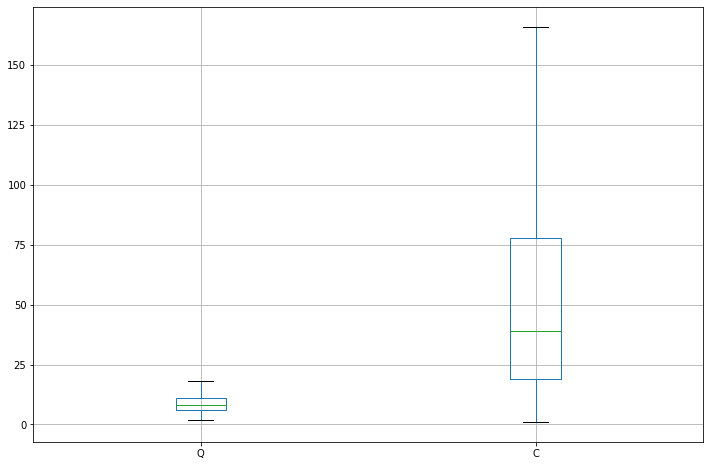
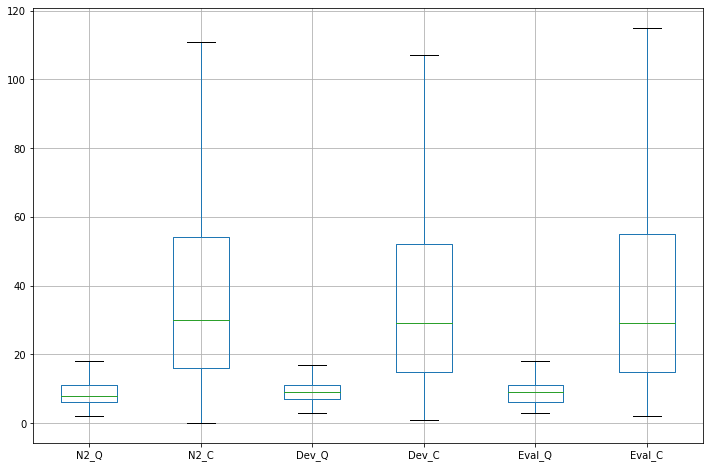
revise training and evaluation. explain boxplot table. fix pre processing section. fix training and evaluation figures. fix representing each word of a sentence (section 3.1)

diff --git a/cap-resultados.tex b/cap-resultados.tex
@@ -77,7 +77,7 @@ $N_{3}$: Trechos de código-fonte anotados manualmente & $2.169$ & $2.056$  \\
  \hline 
  
 \end{tabular}
-\caption{Divisão do conjunto de dados disponibilizado por \cite{yao-2018}. O conjunto formado por "Trechos de código-fonte anotados automaticamente" contém questões que tem mais de um trecho de código-fonte por resposta. Quando há mais de um trecho de código-fonte por resposta, nem todo trecho é uma solução. Neste caso, \cite{yao-2018} criaram um framework para anotá-los automaticamente. Eles obtiveram F1 de $0,916$ e acurácia de $0,911$ em seus testes de classificação das respostas corretas.}
+\caption{Divisão do conjunto de dados disponibilizado por \cite{yao-2018}. O conjunto formado por "Trechos de código-fonte anotados automaticamente" contém questões que tem mais de um trecho de código-fonte por resposta. Quando há mais de um trecho de código-fonte por resposta, nem todo trecho é uma solução. Neste caso, \cite{yao-2018} criaram um framework para anotá-los automaticamente. Eles obtiveram F1 de $0,916$ e acurácia de $0,911$ em seus testes de classificação automática das respostas corretas.}
 \label{table:summary-training-data-yao-staqc}
 \end{table}
 
@@ -85,43 +85,6 @@ $N_{3}$: Trechos de código-fonte anotados manualmente & $2.169$ & $2.056$  \\
 \label{sec:treinamento-avaliacao}
 
 Para o treinamento do modelo, utilizamos apenas os pares de questões e trechos de código-fonte em Python. Utilizamos os conjuntos $N_{1}$ e $N_{2}$ para treinamento e avaliação conforme a Figura~\ref{fig:distinct-subset-python-pair-question-code}. O conjunto de amostras $N_{1}$ apresenta uma variabilidade maior, em torno de 27\% das questões contém mais de um trecho de código-fonte anotados como correto, i.e., 27\% das perguntas tem mais de uma opção de solução.
-
-\begin{table}[h]
-\centering
-\begin{tabular}{ p{8em} P{10em} P{10em} }
-\hline
-  & \multicolumn{2}{c}{\textbf{Quantidade de palavras}}\\
-\hline
- & \textbf{Questão} & \textbf{Trecho de código}  \\
-\hline
-
-Média &	 $8.93$ & $66.82$ \\
-
-Desvio padrão & $3.64$ & $113.71$ \\
-
-Mínimo & $2$ & $1$ \\ 
-
-25\% & $6$ & $19$ \\
-
-50\% & $8$ & $39$ \\
-
-75\% & $11$ & $78$ \\
-
-Máximo & $32$ & $14413$ \\
- 
- 
- \hline 
- 
-\end{tabular}
-\caption{Estatística descritiva da amostra de questões e trechos de código em Python utilizados no treinamento e avaliação dos modelos. Esta tabela inclui a média, desvio padrão e os percentis 25\%, 50\% e 75\%.}
-\label{table:statistical-descriptive-of-pythons-sample}
-\end{table}
-
-\begin{figure}[h]
-\includegraphics[width=1\textwidth]{figuras/cap-experimento/boxplot_number_of_words.png}
-\caption{Boxplot.} 
-\label{fig:boxplot-number-of-words}
-\end{figure}
 
 Adotamos o mesmo procedimento de treinamento e avaliação proposto por \cite{iyer-etal-2016-summarizing}. Para o treinamento, foi utilizado o conjunto com $60.083$ pares. Para escolha do modelo e avaliação final, foi utilizado o conjunto de dados anotados manualmente. A divisão das amostras para treinamento e avaliação podem ser visualizadas na Tabela~\ref{table:divisao-amostras}. 
 
@@ -140,9 +103,48 @@ Adotamos o mesmo procedimento de treinamento e avaliação proposto por \cite{iy
  \textbf{Total} & $\bm{62.252}$\\
  \hline
 \end{tabular}
-\caption{Divisão das amostras para treinamento e avaliação. O conjunto de dados é formado por pares $<q_{i}, c_{i}^{+}>$, onde $q_{i}$ é uma questão e $c_{i}^{+}$ é um trecho de código-fonte anotado como correto. O conjunto formado por pares anotados manualmente foi dividido em DEV e EVAL conforme o procedimento descrito por \cite{iyer-etal-2016-summarizing}.}
+\caption{Divisão das amostras para treinamento e avaliação. O conjunto de dados é formado por pares $<q_{i}, c_{i}^{+}>$, onde $q_{i}$ é uma questão e $c_{i}^{+}$ é um trecho de código-fonte anotado como correto. O conjunto formado por pares anotados manualmente foi dividido em DEV e EVAL conforme o procedimento descrito na figura XXX de treinamento por \cite{iyer-etal-2016-summarizing}.}
 \label{table:divisao-amostras}
 \end{table}
+
+
+\begin{table}[h]
+\centering
+\begin{tabular}{ p{5em} P{4em} P{4em} P{4em} P{4em} P{4em} P{4em} }
+\hline
+  & \multicolumn{5}{c}{\textbf{Quantidade de palavras}}\\
+\hline
+ & \textbf{$\mathbf{N_{2}}$\_Q} & \textbf{$\mathbf{N_{2}}$\_C} & \textbf{Dev\_Q} & \textbf{Dev\_C} & \textbf{Eval\_Q} & \textbf{Eval\_C}  \\
+\hline
+
+Média &	 $8.89$ & $44.41$ &	 $9.15$ & $44.31$ &	 $9.35$ & $42.78$ \\
+
+Desvio padrão & $3.65$ & $55.19$ &	 $3.64$ & $51.87$ &	 $3.85$ & $43.82$ \\
+
+Mínimo & $2$ & $1$ &	 $3$ & $1$ &	 $3$ & $2$ \\ 
+
+25\% & $6$ & $16$ &	 $7$ & $15$ &	 $6$ & $15$ \\
+
+50\% & $8$ & $30$ &	 $9$ & $29$ &	 $9$ & $29$ \\
+
+75\% & $11$ & $54$ &	 $11$ & $52$ &	 $11$ & $55$ \\
+
+Máximo & $32$ & $3566$ &	 $25$ & $708$ &	 $27$ & $439$ \\
+ 
+ 
+ \hline 
+ 
+\end{tabular}
+\caption{Estatística descritiva da amostra de questões e trechos de código em Python utilizados no treinamento e avaliação dos modelos. Esta tabela inclui a média, desvio padrão e os percentis 25\%, 50\% e 75\% após o pré-processamento. Os detalhes sobre o pré-processamento estão presentes na Seção~\ref{sec:pre-processamento}.}
+\label{table:statistical-descriptive-of-pythons-sample}
+\end{table}
+
+\begin{figure}[h]
+\includegraphics[width=1\textwidth]{figuras/cap-experimento/boxplot_number_of_words.png}
+\caption{Boxplot.} 
+\label{fig:boxplot-number-of-words}
+\end{figure}
+
 
 Durante o treinamento, do total de $60.083$ amostras, $42058$ foram utilizadas para o conjunto de treinamento e $18025$ para o conjunto de validação.
 
@@ -161,6 +163,7 @@ Onde $n$ é a quantidade de questões presentes na amostra, $p_{i}^{+}$ é a pos
 Este procedimento é repetido durante 20 vezes. A cada iteração, outros 49 distratores são selecionados. Ao final, obtém-se a média \emph{MRR} do modelo. O modelo que obtiver a maior média \emph{MRR} ao final do treinamento é escolhido. A avaliação final na amostra \emph{EVAL} utiliza o mesmo procedimento da amostra \emph{DEV} descrito acima.
 
 \section{Pré-processamento}
+\label{sec:pre-processamento}
 
 Diferente do trabalho de \cite{tan-lstm-qa}, nós geramos duas matrizes de representação distribuída distintas $\bm{T_{q}}$ e $\bm{T_{c}}$ para o vocabulário das questões e para o vocabulário dos trechos de código-fonte, conforme citado no Capítulo~\ref{cap:abordagem}. Antes de gerar a matriz $\bm{T_{c}}$, utilizamos uma função disponibilizada por \cite{yao-2018} para fazer um pré-processamento dos trechos de código-fonte. Essa função substitui os valores literais numéricos e textos pelas palavras \emph{"NUMBER"} e \emph{"STRING"}. Além disso, os comentários são removidos e as variáveis são substituídas por \emph{"VAR"}. O caractere de quebra de linha é substituído por \emph{"NEWLINE"}.
 
